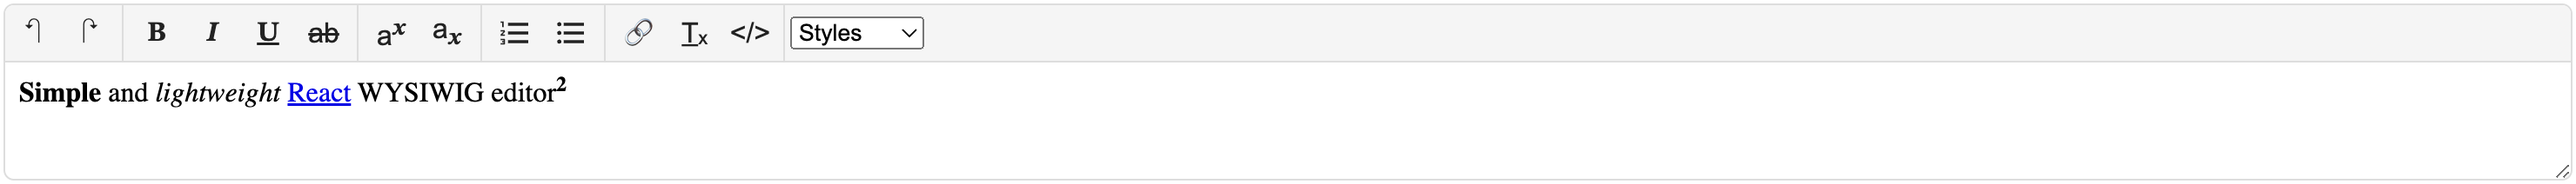
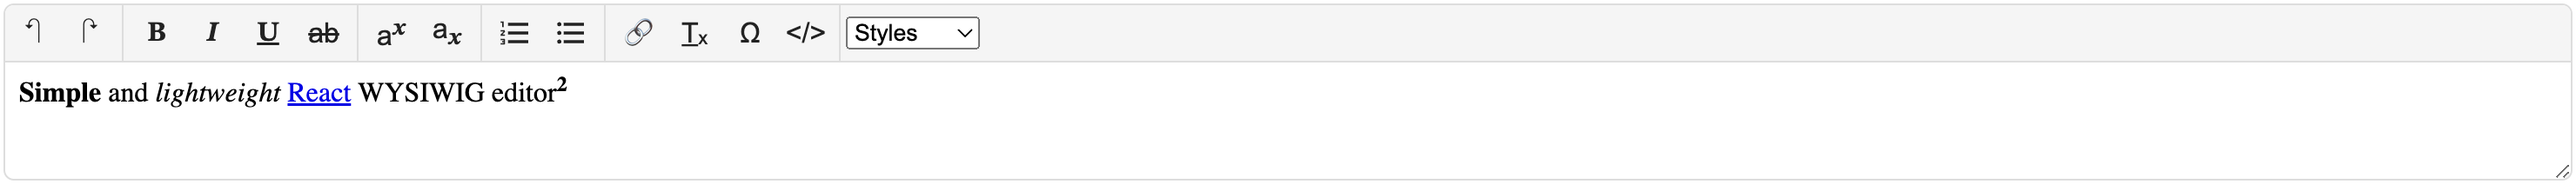
add special character editor

Changed region(s): [[0.2797, 0.0849, 0.373, 0.283], [0.1243, 0.4528, 0.2176, 0.566]]

diff --git a/src/toolbar/SpecialCharacters.tsx b/src/toolbar/SpecialCharacters.tsx
@@ -1,0 +1,63 @@
+import React from 'react';
+import type { HTMLAttributes } from 'react';
+import { useEditorState } from '../editor/EditorContext';
+import { CHARS } from './chars';
+import { createButton } from './buttons';
+
+export function BtnSpecialCharacters(props: HTMLAttributes<HTMLButtonElement>) {
+  const [isOpen, setIsOpen] = React.useState(false);
+  const editorState = useEditorState();
+
+  const { title = 'Special characters' } = props;
+
+  const insertChar = (char: string) => {
+    document.execCommand('insertText', false, char);
+    setIsOpen(false);
+  };
+
+  const ButtonComponent = React.useMemo(() => {
+    return createButton(title, <span>Ω</span>, () => setIsOpen(true));
+  }, [title]);
+
+  if (editorState.htmlMode) return null;
+
+  return (
+    <>
+      <ButtonComponent {...props} />
+
+      {isOpen && (
+        <>
+          <div
+            className="rsw-click-disabler"
+            onClick={() => setIsOpen(false)}
+          />
+          <div className="rsw-modal">
+            <header>
+              <h3>{title}</h3>
+              <button
+                aria-label="Close"
+                onClick={() => setIsOpen(false)}
+                className="rsw-btn"
+              >
+                ×
+              </button>
+            </header>
+            <main>
+              {CHARS.map((char, i) => (
+                <button
+                  aria-label={`Insert ${char}`}
+                  key={i}
+                  onClick={() => insertChar(char)}
+                  className="rsw-btn"
+                  title={`Insert ${char}`}
+                >
+                  {char}
+                </button>
+              ))}
+            </main>
+          </div>
+        </>
+      )}
+    </>
+  );
+}

diff --git a/src/styles.css b/src/styles.css
@@ -72,3 +72,41 @@
   border-bottom: 1px solid #ddd;
   display: flex;
 }
+
+.rsw-click-disabler {
+  position: fixed;
+  inset: 0;
+  background: rgba(0,0,0,0.3);
+  z-index: 999;
+}
+
+.rsw-modal {
+  position: fixed;
+  top: 50%;
+  left: 50%;
+  transform: translate(-50%, -50%);
+  background: white;
+  border: 1px solid #ccc;
+  border-radius: 8px;
+  padding: 20px;
+  z-index: 1000;
+  max-width: min(80vw, 400px);
+
+  header {
+    display: flex;
+    justify-content: space-between;
+    margin-bottom: 15px;
+
+    h3 {
+      margin: 0;
+      color: #2c5aa0;
+    }
+  }
+
+  main {
+    display: grid;
+    grid-template-columns: repeat(auto-fit, minmax(28px, 1fr));
+    gap: 5px;
+    max-width: 80dvw;
+  }
+}

diff --git a/src/editor/DefaultEditor.tsx b/src/editor/DefaultEditor.tsx
@@ -15,6 +15,7 @@ import {
   BtnSuperscript,
   BtnUnderline,
   BtnUndo,
+  BtnSpecialCharacters,
   HtmlButton,
   Separator,
   Toolbar,
@@ -45,6 +46,7 @@ export const DefaultEditor = React.forwardRef(function DefaultEditor(
             <Separator />
             <BtnLink />
             <BtnClearFormatting />
+            <BtnSpecialCharacters />
             <HtmlButton />
             <Separator />
             <BtnStyles />

diff --git a/src/toolbar/chars.ts b/src/toolbar/chars.ts
@@ -1,0 +1,38 @@
+export const CHARS = [
+  '↑',
+  '↓',
+  '←',
+  '→',
+  '↔',
+  '∞',
+  '×',
+  '÷',
+  '±',
+  '≤',
+  '≥',
+  '≠',
+  'α',
+  'β',
+  'γ',
+  'δ',
+  'ε',
+  'π',
+  'λ',
+  'μ',
+  'σ',
+  'τ',
+  'φ',
+  'ω',
+  'Α',
+  'Β',
+  'Γ',
+  'Δ',
+  'Ε',
+  'Π',
+  'Λ',
+  'Μ',
+  'Σ',
+  'Τ',
+  'Φ',
+  'Ω',
+];

diff --git a/src/toolbar/index.ts b/src/toolbar/index.ts
@@ -2,4 +2,5 @@ export * from './buttons';
 export * from './dropdowns';
 export * from './HtmlButton';
 export * from './Separator';
+export * from './SpecialCharacters';
 export * from './Toolbar';
